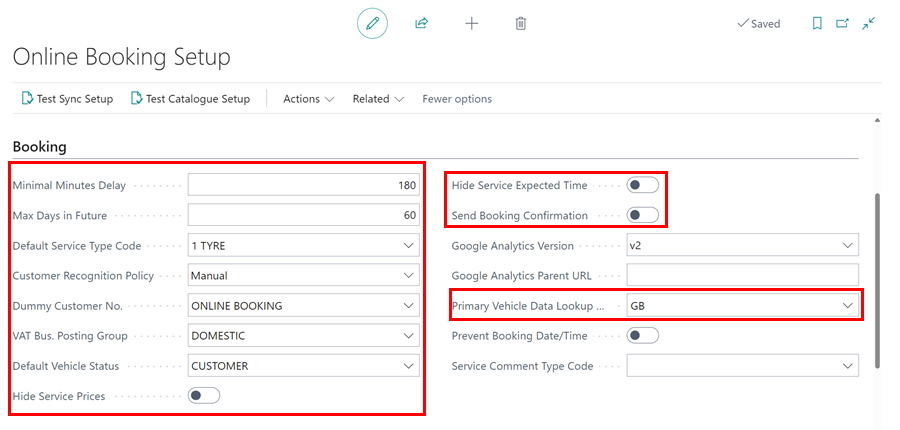
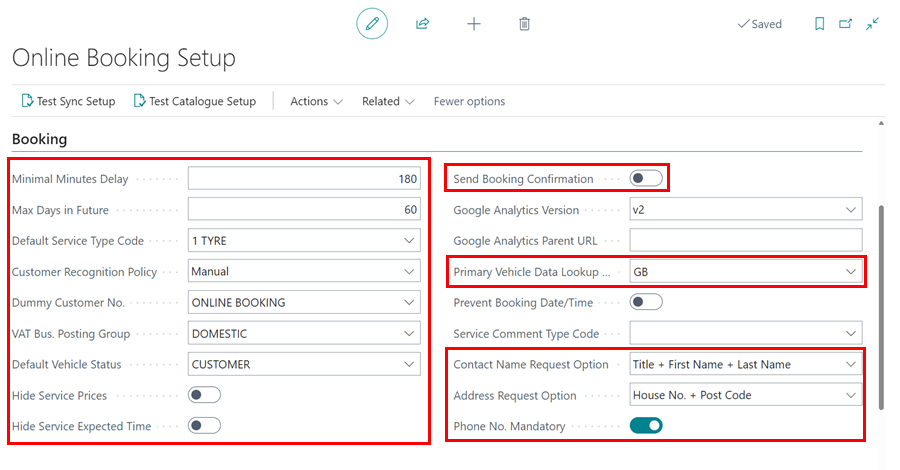
online booking

diff --git a/docs/garagehive-onlinebooking-time-grids.md b/docs/garagehive-onlinebooking-time-grids.md
@@ -5,31 +5,33 @@ title: Setting Up Online Booking - Time Grids
 
 # Time Grids
 
-Time grids are system time allocations that help manage time slot availability for online bookings. Customers, for example, must choose a service package when making an online booking. They must choose a time slot to book after selecting a service package. Now, time grids come into play so that the system can provide available time slots. The time grids are set up to determine the number of labour hours required in the service package being booked and to suggest available time slots for the resource doing the work. Let's take a look at how you can set and work with time grids.
+Time grids are system time allocations that help manage time slot availability for online bookings. When a customer makes a booking online, they first select a service package. After that, they need to choose a time slot for the booking. This is where time grids come in, allowing the system to display available time slots. These grids are configured to calculate the labour hours required for the selected service package and suggest suitable time slots for the resource performing the work. Let’s explore how to set up and use time grids effectively.
+
+   ![](media/garagehive-time-grids.png)
 
 
 ## In this article
-1. [Setting up time grids in the system](#setting-up-time-grids-in-the-system)
-2. [Adding time grids for a resource](#adding-time-grids-for-a-resource)
-3. [Adding greyed lines in the schedule using time grids](adding-greyed-lines-in-the-schedule)
+1. [Setting Up Time Grids in the System](#setting-up-time-grids-in-the-system)
+2. [Adding Time Grids for a Resource](#adding-time-grids-for-a-resource)
+3. [Adding Greyed Lines in the Schedule Using Time Grids](adding-greyed-lines-in-the-schedule)
 
-### Setting up time grids in the system
+### Setting Up Time Grids in the System
 1. In the top right corner, choose the ![](media/search_icon.png) icon, enter **Time Grids**, and select the related link.
-2. The list that appears is for the time grids that have already been set.
+1. The list that appears is for the time grids that have already been set.
 
    ![](media/garagehive-online-booking-time-grids1.gif)
 
-3. To make it easier for you to understand, we'll make a new time grid. Click **Edit List** and then, under the **Code** column, enter a code to identify the time grid in the system, in our case, **1.5HRS**.
-4. After that, you can add a **Description** or leave it blank.
-5. In the column **Duration (Minutes),** enter the number of minutes that will represent this time grid's time slot. In this case, we'll do **90 minutes** because 1.5 hours equals 90 minutes.
-6. In the Priority column, enter any number to define the slot's priority. The higher the priority, the lower the number, and vice versa. We'll do **10** in this case.
+1. To make it easier for you to understand, we'll make a new time grid. Click **Edit List** and then, under the **Code** column, enter a code to identify the time grid in the system, in our case, **1.5HRS**.
+1. After that, you can add a **Description** or leave it blank.
+1. In the column **Duration (Minutes),** enter the number of minutes that will represent this time grid's time slot. In this case, we'll do **90 minutes** because 1.5 hours equals 90 minutes.
+1. In the Priority column, enter any number to define the slot's priority. The higher the priority, the lower the number, and vice versa. We'll do **10** in this case.
 
-  ![](media/garagehive-online-booking-time-grids2.gif)  
+   ![](media/garagehive-online-booking-time-grids2.gif)  
 
-7. The next step is to define the various time slots in which a booking can be made. They all have to be 90 minutes duration as specified in the previous window. Choose the 1.5Hrs row and then click **Grid Items**.
-8. In the window that appears, begin adding the **Time Start** for when you want the **90-minute time slots** to begin, and then press the down arrow.
-9. The **Time End** field is automatically filled by adding 90 minutes to the start time you specified.
-10. You have the option of adding multiple time slots to the list.
+1. The next step is to define the various time slots in which a booking can be made. They all have to be 90 minutes duration as specified in the previous window. Choose the 1.5Hrs row and then click **Grid Items**.
+1. In the window that appears, begin adding the **Time Start** for when you want the **90-minute time slots** to begin, and then press the down arrow.
+1. The **Time End** field is automatically filled by adding 90 minutes to the start time you specified.
+1. You have the option of adding multiple time slots to the list.
 
   ![](media/garagehive-online-booking-time-grids3.gif)
 
@@ -37,7 +39,7 @@ Time grids are system time allocations that help manage time slot availability f
 > 
 > The customer logs in to your online booking platform and selects the **Full Service** package with a labour hour of **0.45hr**. Now, in order to provide the best time slot suggestions to the customer, the system first examines the grid priority settings. So, if the **30 minutes** duration has priority one, and the labour (45 minutes) is longer than 30 minutes, the system will bypass the 30 minutes and go to the next priority, which could be **60 minutes**, and now, because the 45 minutes fall within 60 minutes, the time slots set up under the **60 minutes** duration are suggested as the available times for booking.
 
-### Adding time grids for a resource
+### Adding Time Grids for a Resource
 Time grids are added to the resource to specify the duration of time that the resource can work and the time slots that the resource can be booked. For example, if we add **1Hr** to the time grid for the resource, it means that the resource can be booked for the full 60-minute duration. Here's how to add time grids for resources:
 1. In the top-right corner, choose the ![](media/search_icon.png) icon, enter **Resources** and select the related link.
 2. The window that appears lists all of the resources that have been added to the system; select the resource to which you want to add the time grids. In this instance, we'll go with **MOT**.

diff --git a/docs/garagehive-onlinebooking-setup.md b/docs/garagehive-onlinebooking-setup.md
@@ -24,7 +24,7 @@ To setup online booking:
 
    ![](media/garagehive-onlinebooking-setup2.png)
 
-3. You can make the following changes under the **Booking** FastTab:
+3. Adjust the following setting under the **Booking** FastTab:
       - **Minimum Minutes Delay** - This is the time difference between now and the first available booking, i.e., 180 minutes equals a 3-hour delay, implying that at 8 a.m., a customer can make a booking for 11 a.m. that same day.
       - **Max Days in Future** - This is the maximum number of days in the future that bookings can be made.
       - **Default Deal Type Code** - It is recommended that this be set to **OB**. For more information on this feature, please contact a member of the team. 
@@ -41,6 +41,13 @@ To setup online booking:
       - **Hide Service Expected Time** – This hides the expected service times from service packages. (displayed when **More Info** is clicked, along with any extended descriptions set up in the packages).
 
         ![](media/garagehive-onlinebooking-setup4.gif)
+
+      - **Contact Information** - On the last page of the Online Booking form, customers are asked to provide their contact details. You can customise what information is required by adjusting the following fields:
+        - **Contact Name Request Option:** Choose between requesting just the name, or a combination of title, first name, and last name. 
+        - **Address Request Option:** Select whether to request only the house number or the full address.
+        - **Phone No. Mandatory:** Decide whether the customer must provide a phone number.
+
+         ![](media/garagehive-customer-information.png)
 
 4. Under the **Internal Notification** FastTab, you can set the following:
       - **Send To Emails** – This is usually left blank, but it can be used for additional email recipients; this is for a confirmation email that's sent to the branch.
